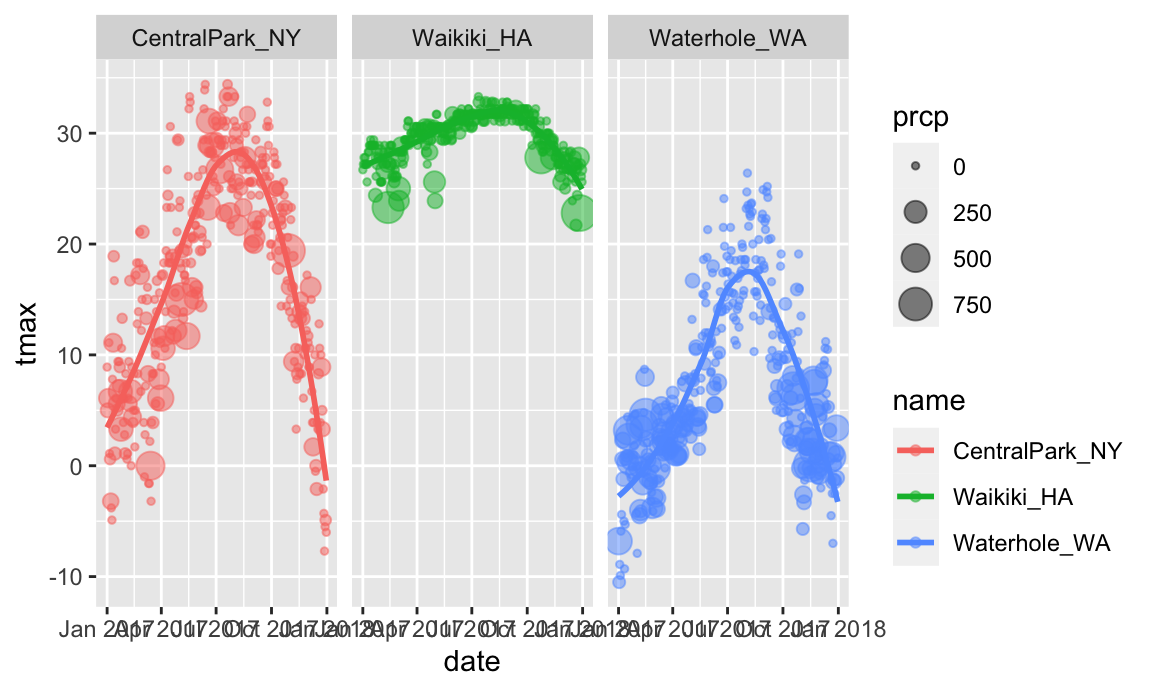
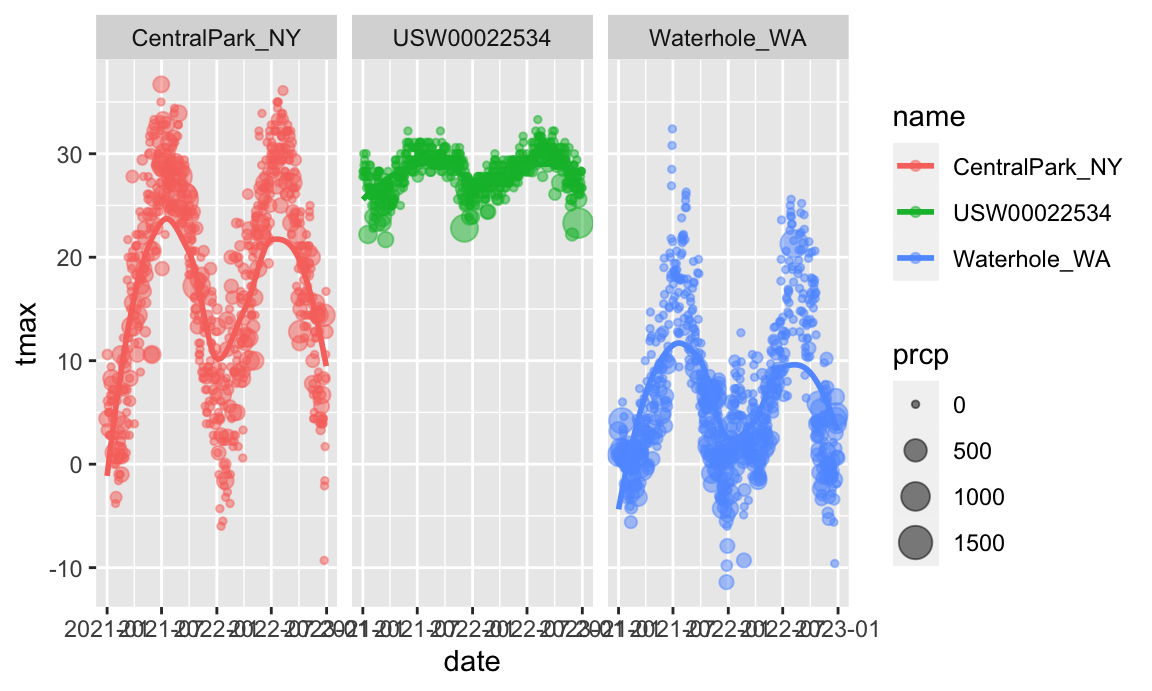
pre-lecture updates
-- native pipe
-- waikiki -> molokai
-- new year range for data

diff --git a/visualization_pt1.html b/visualization_pt1.html
@@ -13,7 +13,7 @@
 
 <title>Visualization with ggplot2</title>
 
-<script src="site_libs/header-attrs-2.16/header-attrs.js"></script>
+<script src="site_libs/header-attrs-2.24/header-attrs.js"></script>
 <script src="site_libs/jquery-3.6.0/jquery-3.6.0.min.js"></script>
 <meta name="viewport" content="width=device-width, initial-scale=1" />
 <link href="site_libs/bootstrap-3.3.5/css/cosmo.min.css" rel="stylesheet" />
@@ -29,14 +29,14 @@
        h6 {font-size: 12px;}
        code {color: inherit; background-color: rgba(0, 0, 0, 0.04);}
        pre:not([class]) { background-color: white }</style>
-<script src="site_libs/jqueryui-1.11.4/jquery-ui.min.js"></script>
+<script src="site_libs/jqueryui-1.13.2/jquery-ui.min.js"></script>
 <link href="site_libs/tocify-1.9.1/jquery.tocify.css" rel="stylesheet" />
 <script src="site_libs/tocify-1.9.1/jquery.tocify.js"></script>
 <script src="site_libs/navigation-1.1/tabsets.js"></script>
 <link href="site_libs/highlightjs-9.12.0/default.css" rel="stylesheet" />
 <script src="site_libs/highlightjs-9.12.0/highlight.js"></script>
-<link href="site_libs/font-awesome-5.1.0/css/all.css" rel="stylesheet" />
-<link href="site_libs/font-awesome-5.1.0/css/v4-shims.css" rel="stylesheet" />
+<link href="site_libs/font-awesome-6.4.2/css/all.min.css" rel="stylesheet" />
+<link href="site_libs/font-awesome-6.4.2/css/v4-shims.min.css" rel="stylesheet" />
 <link rel="stylesheet" href="https://maxcdn.bootstrapcdn.com/font-awesome/latest/css/font-awesome.min.css" />
 <script defer src="https://use.fontawesome.com/releases/v5.0.3/js/all.js"></script>
 <script defer src="https://use.fontawesome.com/releases/v5.0.0/js/v4-shims.js"></script>
@@ -197,8 +197,8 @@ $(document).ready(function () {
   border-radius: 4px;
 }
 
-.tabset-dropdown > .nav-tabs > li.active:before {
-  content: "";
+.tabset-dropdown > .nav-tabs > li.active:before, .tabset-dropdown > .nav-tabs.nav-tabs-open:before {
+  content: "\e259";
   font-family: 'Glyphicons Halflings';
   display: inline-block;
   padding: 10px;
@@ -206,16 +206,9 @@ $(document).ready(function () {
 }
 
 .tabset-dropdown > .nav-tabs.nav-tabs-open > li.active:before {
-  content: "&#xe258;";
-  border: none;
-}
-
-.tabset-dropdown > .nav-tabs.nav-tabs-open:before {
-  content: "";
+  content: "\e258";
   font-family: 'Glyphicons Halflings';
-  display: inline-block;
-  padding: 10px;
-  border-right: 1px solid #ddd;
+  border: none;
 }
 
 .tabset-dropdown > .nav-tabs > li.active {
@@ -499,44 +492,44 @@ course. Because this process can take some time, I’ll cache the code
 chunk.</p>
 <pre class="r"><code>weather_df = 
   rnoaa::meteo_pull_monitors(
-    c(&quot;USW00094728&quot;, &quot;USC00519397&quot;, &quot;USS0023B17S&quot;),
+    c(&quot;USW00094728&quot;, &quot;USW00022534&quot;, &quot;USS0023B17S&quot;),
     var = c(&quot;PRCP&quot;, &quot;TMIN&quot;, &quot;TMAX&quot;), 
-    date_min = &quot;2017-01-01&quot;,
-    date_max = &quot;2017-12-31&quot;) %&gt;%
+    date_min = &quot;2021-01-01&quot;,
+    date_max = &quot;2022-12-31&quot;) |&gt;
   mutate(
     name = recode(
       id, 
       USW00094728 = &quot;CentralPark_NY&quot;, 
-      USC00519397 = &quot;Waikiki_HA&quot;,
+      USC00519397 = &quot;Molokai_HI&quot;,
       USS0023B17S = &quot;Waterhole_WA&quot;),
     tmin = tmin / 10,
-    tmax = tmax / 10) %&gt;%
+    tmax = tmax / 10) |&gt;
   select(name, id, everything())
-## using cached file: ~/Library/Caches/R/noaa_ghcnd/USW00094728.dly
-## date created (size, mb): 2022-04-04 04:13:35 (7.647)
-## file min/max dates: 1869-01-01 / 2022-04-30
-## using cached file: ~/Library/Caches/R/noaa_ghcnd/USC00519397.dly
-## date created (size, mb): 2022-04-04 04:13:39 (1.697)
-## file min/max dates: 1965-01-01 / 2020-02-29
-## using cached file: ~/Library/Caches/R/noaa_ghcnd/USS0023B17S.dly
-## date created (size, mb): 2022-04-04 04:13:42 (0.93)
-## file min/max dates: 1999-09-01 / 2022-03-31
+## using cached file: /Users/jeffgoldsmith/Library/Caches/org.R-project.R/R/rnoaa/noaa_ghcnd/USW00094728.dly
+## date created (size, mb): 2023-09-19 15:41:55.07359 (8.524)
+## file min/max dates: 1869-01-01 / 2023-09-30
+## using cached file: /Users/jeffgoldsmith/Library/Caches/org.R-project.R/R/rnoaa/noaa_ghcnd/USW00022534.dly
+## date created (size, mb): 2023-09-25 10:06:23.827176 (3.83)
+## file min/max dates: 1949-10-01 / 2023-09-30
+## using cached file: /Users/jeffgoldsmith/Library/Caches/org.R-project.R/R/rnoaa/noaa_ghcnd/USS0023B17S.dly
+## date created (size, mb): 2023-09-19 15:42:03.139582 (0.994)
+## file min/max dates: 1999-09-01 / 2023-09-30
 
 weather_df
-## # A tibble: 1,095 × 6
+## # A tibble: 2,190 × 6
 ##    name           id          date        prcp  tmax  tmin
 ##    &lt;chr&gt;          &lt;chr&gt;       &lt;date&gt;     &lt;dbl&gt; &lt;dbl&gt; &lt;dbl&gt;
-##  1 CentralPark_NY USW00094728 2017-01-01     0   8.9   4.4
-##  2 CentralPark_NY USW00094728 2017-01-02    53   5     2.8
-##  3 CentralPark_NY USW00094728 2017-01-03   147   6.1   3.9
-##  4 CentralPark_NY USW00094728 2017-01-04     0  11.1   1.1
-##  5 CentralPark_NY USW00094728 2017-01-05     0   1.1  -2.7
-##  6 CentralPark_NY USW00094728 2017-01-06    13   0.6  -3.8
-##  7 CentralPark_NY USW00094728 2017-01-07    81  -3.2  -6.6
-##  8 CentralPark_NY USW00094728 2017-01-08     0  -3.8  -8.8
-##  9 CentralPark_NY USW00094728 2017-01-09     0  -4.9  -9.9
-## 10 CentralPark_NY USW00094728 2017-01-10     0   7.8  -6  
-## # ℹ 1,085 more rows</code></pre>
+##  1 CentralPark_NY USW00094728 2021-01-01   157   4.4   0.6
+##  2 CentralPark_NY USW00094728 2021-01-02    13  10.6   2.2
+##  3 CentralPark_NY USW00094728 2021-01-03    56   3.3   1.1
+##  4 CentralPark_NY USW00094728 2021-01-04     5   6.1   1.7
+##  5 CentralPark_NY USW00094728 2021-01-05     0   5.6   2.2
+##  6 CentralPark_NY USW00094728 2021-01-06     0   5     1.1
+##  7 CentralPark_NY USW00094728 2021-01-07     0   5    -1  
+##  8 CentralPark_NY USW00094728 2021-01-08     0   2.8  -2.7
+##  9 CentralPark_NY USW00094728 2021-01-09     0   2.8  -4.3
+## 10 CentralPark_NY USW00094728 2021-01-10     0   5    -1.6
+## # ℹ 2,180 more rows</code></pre>
 <p>We’ll start with a basic scatterplot to develop our understanding of
 <code>ggplot</code>’s data + mappings + geoms approach, and build
 quickly from there.</p>
@@ -555,13 +548,15 @@ variables, but not what I want to show. Below I add a <code>geom</code>
 to define my first scatterplot.</p>
 <pre class="r"><code>ggplot(weather_df, aes(x = tmin, y = tmax)) + 
   geom_point()
-## Warning: Removed 15 rows containing missing values (`geom_point()`).</code></pre>
+## Warning: Removed 17 rows containing missing values (`geom_point()`).</code></pre>
 <p><img src="visualization_pt1_files/figure-html/unnamed-chunk-4-1.png" width="90%" /></p>
 <p>The code below could be used instead to produce the same figure.
 Using this style can be helpful if you want to do some pre-processing
-before making your plot but don’t want to save the intermediate
-data.</p>
-<pre class="r"><code>weather_df %&gt;%
+before making your plot but don’t want to save the intermediate data.
+It’s also consistent with many other pipelines: you start with a data
+frame, <em>and then</em> do stuff by piping the dataframe into the next
+function. Most of my plotting code is written like this.</p>
+<pre class="r"><code>weather_df |&gt;
   ggplot(aes(x = tmin, y = tmax)) + 
   geom_point()</code></pre>
 <p>Notice that we try to use good styling practices here as well – new
@@ -570,11 +565,11 @@ sequence is indented, we’re making use of whitespace, etc.</p>
 <p>You can also save the output of <code>ggplot()</code> to an object
 and modify / print it later. This is often helpful, although it’s not my
 default approach to making plots.</p>
-<pre class="r"><code>plot_weather = 
-  weather_df %&gt;%
+<pre class="r"><code>ggp_weather = 
+  weather_df |&gt;
   ggplot(aes(x = tmin, y = tmax)) 
 
-plot_weather + geom_point()</code></pre>
+ggp_weather + geom_point()</code></pre>
 </div>
 <div id="advanced-scatterplot" class="section level3">
 <h3>Advanced scatterplot</h3>
@@ -586,7 +581,7 @@ variables to learn about using additional aesthetic mappings.</p>
 <code>color</code> aesthetic:</p>
 <pre class="r"><code>ggplot(weather_df, aes(x = tmin, y = tmax)) + 
   geom_point(aes(color = name))
-## Warning: Removed 15 rows containing missing values (`geom_point()`).</code></pre>
+## Warning: Removed 17 rows containing missing values (`geom_point()`).</code></pre>
 <p><img src="visualization_pt1_files/figure-html/unnamed-chunk-7-1.png" width="90%" /></p>
 <p>Nice! We get colors and have a handly legend. Maybe next I’ll add a
 smooth curve and make the data points a bit transparent.</p>
@@ -594,8 +589,8 @@ smooth curve and make the data points a bit transparent.</p>
   geom_point(aes(color = name), alpha = .5) +
   geom_smooth(se = FALSE)
 ## `geom_smooth()` using method = &#39;gam&#39; and formula = &#39;y ~ s(x, bs = &quot;cs&quot;)&#39;
-## Warning: Removed 15 rows containing non-finite values (`stat_smooth()`).
-## Warning: Removed 15 rows containing missing values (`geom_point()`).</code></pre>
+## Warning: Removed 17 rows containing non-finite values (`stat_smooth()`).
+## Warning: Removed 17 rows containing missing values (`geom_point()`).</code></pre>
 <p><img src="visualization_pt1_files/figure-html/unnamed-chunk-8-1.png" width="90%" /></p>
 <p>Neat! The curve gives a sense of the relationship between variables,
 and the transparency shows where data are overlapping. I can’t help but
@@ -611,8 +606,8 @@ name as well.</p>
   geom_smooth(se = FALSE) + 
   facet_grid(. ~ name)
 ## `geom_smooth()` using method = &#39;loess&#39; and formula = &#39;y ~ x&#39;
-## Warning: Removed 15 rows containing non-finite values (`stat_smooth()`).
-## Warning: Removed 15 rows containing missing values (`geom_point()`).</code></pre>
+## Warning: Removed 17 rows containing non-finite values (`stat_smooth()`).
+## Warning: Removed 17 rows containing missing values (`geom_point()`).</code></pre>
 <p><img src="visualization_pt1_files/figure-html/unnamed-chunk-9-1.png" width="90%" /></p>
 <p>Awesome! I’ve learned a lot about these data. However, the
 relationship between minimum and maximum temperature is now kinda
@@ -623,12 +618,12 @@ to learn about precipitation, so let’s do that.</p>
   geom_smooth(se = FALSE) + 
   facet_grid(. ~ name)
 ## `geom_smooth()` using method = &#39;loess&#39; and formula = &#39;y ~ x&#39;
-## Warning: Removed 3 rows containing non-finite values (`stat_smooth()`).
-## Warning: Removed 3 rows containing missing values (`geom_point()`).</code></pre>
+## Warning: Removed 17 rows containing non-finite values (`stat_smooth()`).
+## Warning: Removed 19 rows containing missing values (`geom_point()`).</code></pre>
 <p><img src="visualization_pt1_files/figure-html/unnamed-chunk-10-1.png" width="90%" /></p>
 <p>Way more interesting! You get a whole range of temperatures in
 Central Park (sometimes it’s maybe too hot); it’s more temperate near
-Seattle but it rains <em>all the time</em>; and Waikiki is great except
+Seattle but it rains <em>all the time</em>; and Molokai is great except
 for that a few (relatively) cold, rainy days.</p>
 <p><strong><em>Learning Assessment:</em></strong> Write a code chain
 that starts with <code>weather_df</code>; focuses only on Central Park,
@@ -640,11 +635,11 @@ temperature, and overlays a linear regression line (using options in
 Solution
 </summary>
 <p>I can produce the desired plot using the code below:</p>
-<pre class="r"><code>weather_df %&gt;% 
-  filter(name == &quot;CentralPark_NY&quot;) %&gt;% 
+<pre class="r"><code>weather_df |&gt; 
+  filter(name == &quot;CentralPark_NY&quot;) |&gt; 
   mutate(
     tmax_fahr = tmax * (9 / 5) + 32,
-    tmin_fahr = tmin * (9 / 5) + 32) %&gt;% 
+    tmin_fahr = tmin * (9 / 5) + 32) |&gt; 
   ggplot(aes(x = tmin_fahr, y = tmax_fahr)) +
   geom_point(alpha = .5) + 
   geom_smooth(method = &quot;lm&quot;, se = FALSE)</code></pre>
@@ -663,7 +658,7 @@ you create way more plots for yourself than for others.</p>
 <pre class="r"><code>ggplot(weather_df, aes(x = date, y = tmax, color = name)) + 
   geom_smooth(se = FALSE) 
 ## `geom_smooth()` using method = &#39;loess&#39; and formula = &#39;y ~ x&#39;
-## Warning: Removed 3 rows containing non-finite values (`stat_smooth()`).</code></pre>
+## Warning: Removed 17 rows containing non-finite values (`stat_smooth()`).</code></pre>
 <p><img src="visualization_pt1_files/figure-html/unnamed-chunk-12-1.png" width="90%" /></p>
 <p>When you’re making a scatterplot with lots of data, there’s a limit
 to how much you can avoid overplotting using alpha levels and
@@ -672,7 +667,7 @@ transparency. In these cases <code>geom_hex()</code>,
 handy:</p>
 <pre class="r"><code>ggplot(weather_df, aes(x = tmax, y = tmin)) + 
   geom_hex()
-## Warning: Removed 15 rows containing non-finite values (`stat_binhex()`).</code></pre>
+## Warning: Removed 17 rows containing non-finite values (`stat_binhex()`).</code></pre>
 <p><img src="visualization_pt1_files/figure-html/unnamed-chunk-13-1.png" width="90%" /></p>
 <p>There are lots of aesthetics, and these depend to some extent on the
 geom – <code>color</code> worked for both <code>geom_point()</code> and
@@ -707,20 +702,20 @@ necessary, some new aesthetics.</p>
 <pre class="r"><code>ggplot(weather_df, aes(x = tmax)) + 
   geom_histogram()
 ## `stat_bin()` using `bins = 30`. Pick better value with `binwidth`.
-## Warning: Removed 3 rows containing non-finite values (`stat_bin()`).</code></pre>
+## Warning: Removed 17 rows containing non-finite values (`stat_bin()`).</code></pre>
 <p><img src="visualization_pt1_files/figure-html/unnamed-chunk-15-1.png" width="90%" /></p>
 <p>You can play around with things like the bin width and set the fill
 color using an aesthetic mapping.</p>
 <pre class="r"><code>ggplot(weather_df, aes(x = tmax, fill = name)) + 
   geom_histogram(position = &quot;dodge&quot;, binwidth = 2)
-## Warning: Removed 3 rows containing non-finite values (`stat_bin()`).</code></pre>
+## Warning: Removed 17 rows containing non-finite values (`stat_bin()`).</code></pre>
 <p><img src="visualization_pt1_files/figure-html/unnamed-chunk-16-1.png" width="90%" /></p>
 <p>The <code>position = "dodge"</code> places the bars for each group
 side-by-side, but this gets sort of hard to understand. I often prefer
 density plots in place of histograms.</p>
 <pre class="r"><code>ggplot(weather_df, aes(x = tmax, fill = name)) + 
   geom_density(alpha = .4, adjust = .5, color = &quot;blue&quot;)
-## Warning: Removed 3 rows containing non-finite values (`stat_density()`).</code></pre>
+## Warning: Removed 17 rows containing non-finite values (`stat_density()`).</code></pre>
 <p><img src="visualization_pt1_files/figure-html/unnamed-chunk-17-1.png" width="90%" /></p>
 <p>The <code>adjust</code> parameter in density plots is similar to the
 <code>binwidth</code> parameter in histograms, and it helps to try a few
@@ -734,7 +729,7 @@ the density.</p>
 <p>Histograms and densities are one way of investigating univariate
 distributions; boxplots are another.</p>
 <pre class="r"><code>ggplot(weather_df, aes(x = name, y = tmax)) + geom_boxplot()
-## Warning: Removed 3 rows containing non-finite values (`stat_boxplot()`).</code></pre>
+## Warning: Removed 17 rows containing non-finite values (`stat_boxplot()`).</code></pre>
 <p><img src="visualization_pt1_files/figure-html/unnamed-chunk-18-1.png" width="90%" /></p>
 <p>Violin plots are sometimes nice, but folks complain that they don’t
 <a
@@ -743,8 +738,8 @@ like violins</a>.</p>
 <pre class="r"><code>ggplot(weather_df, aes(x = name, y = tmax)) + 
   geom_violin(aes(fill = name), alpha = .5) + 
   stat_summary(fun = &quot;median&quot;, color = &quot;blue&quot;)
-## Warning: Removed 3 rows containing non-finite values (`stat_ydensity()`).
-## Warning: Removed 3 rows containing non-finite values (`stat_summary()`).
+## Warning: Removed 17 rows containing non-finite values (`stat_ydensity()`).
+## Warning: Removed 17 rows containing non-finite values (`stat_summary()`).
 ## Warning: Removed 3 rows containing missing values (`geom_segment()`).</code></pre>
 <p><img src="visualization_pt1_files/figure-html/unnamed-chunk-19-1.png" width="90%" /></p>
 <p>Ridge plots were the trendiest plot of 2017, and were a replacement
@@ -754,8 +749,9 @@ package, and are nice if you have lots of categories in which the shape
 of the distribution matters.</p>
 <pre class="r"><code>ggplot(weather_df, aes(x = tmax, y = name)) + 
   geom_density_ridges(scale = .85)
-## Picking joint bandwidth of 1.84
-## Warning: Removed 3 rows containing non-finite values (`stat_density_ridges()`).</code></pre>
+## Picking joint bandwidth of 1.54
+## Warning: Removed 17 rows containing non-finite values
+## (`stat_density_ridges()`).</code></pre>
 <p><img src="visualization_pt1_files/figure-html/unnamed-chunk-20-1.png" width="90%" /></p>
 <p><strong><em>Learning Assessment:</em></strong> Make plots that
 compare precipitation across locations. Try a histogram, a density plot,
@@ -782,8 +778,8 @@ because it shows the outliers most clearly. If the “bulk” of the data
 were interesting, I’d probably compliment this with a plot showing data
 for all precipitation less than 100, or for a data omitting days with no
 precipitation.</p>
-<pre class="r"><code>weather_df %&gt;% 
-  filter(prcp &gt; 0) %&gt;% 
+<pre class="r"><code>weather_df |&gt; 
+  filter(prcp &gt; 0) |&gt; 
   ggplot(aes(x = prcp, y = name)) + 
   geom_density_ridges(scale = .85)</code></pre>
 </details>
@@ -828,7 +824,7 @@ document. As an example, the code chunk below has set
 <code>fig.width = 12</code>.</p>
 <pre class="r"><code>ggplot(weather_df, aes(x = tmin, y = tmax)) + 
   geom_point(aes(color = name))
-## Warning: Removed 15 rows containing missing values (`geom_point()`).</code></pre>
+## Warning: Removed 17 rows containing missing values (`geom_point()`).</code></pre>
 <p><img src="visualization_pt1_files/figure-html/unnamed-chunk-27-1.png" width="90%" /></p>
 <p>Usually you can get by with setting reasonable defaults, but keep a
 careful eye on figures you intend to show others – everything should be
